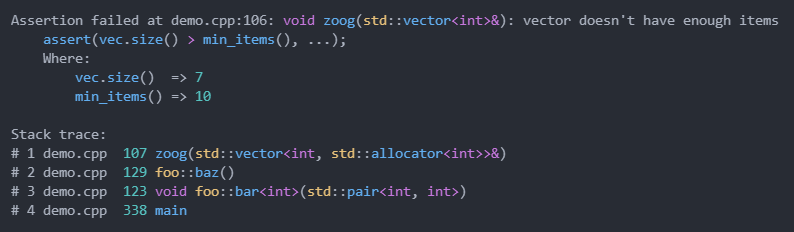
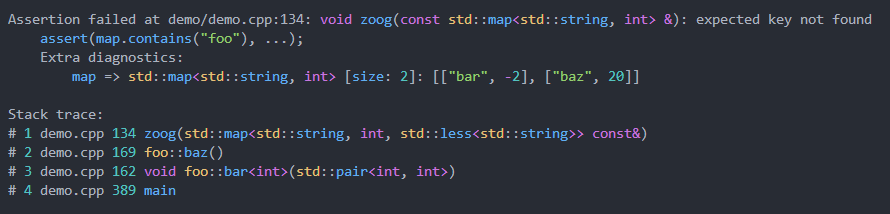
Updated demos to show off new features

Changed region(s): [[0.0, 0.5047, 0.7254, 0.9533], [0.0, 0.0561, 0.9975, 0.4486]]

diff --git a/tests/demo/demo.cpp b/tests/demo/demo.cpp
@@ -133,9 +133,13 @@ auto min_items() {
     return 10;
 }
 
-void zoog(std::vector<int>& vec) {
-    assert(vec.size() > min_items(), "vector doesn't have enough items", vec);
-    assert(vec.size() > 7);
+void zoog(const std::map<std::string, int>& map) {
+    #if __cplusplus >= 202002L
+     assert(map.contains("foo"), "expected key not found", map);
+    #else
+     assert(map.count("foo") != 1, "expected key not found", map);
+    #endif
+    CHECK(map.at("bar") >= 0, "unexpected value for foo in the map", map);
 }
 
 #define O_RDONLY 0
@@ -166,8 +170,13 @@ public:
         puts("");
         // General demos
         {
-            std::vector<int> vec = {1, 2, 3, 4, 5, 6, 7};
-            zoog(vec);
+            zoog({
+                //{ "foo", 2 },
+                { "bar", -2 },
+                { "baz", 20 }
+            });
+            std::vector<int> vec = {2, 3, 5, 7, 11, 13};
+            assert(vec.size() > min_items(), "vector doesn't have enough items", vec);
         }
         const char* path = "/home/foobar/baz";
         {

diff --git a/README.md b/README.md
@@ -10,11 +10,16 @@
 <p align="center">The most over-engineered C++ assertion library</p>
 
 ```cpp
-void zoog(std::vector<int>& vec) {
-    assert(vec.size() > min_items(), "vector doesn't have enough items");
+void zoog(const std::map<std::string, int>& map) {
+    assert(map.contains("foo"), "expected key not found", map);
 }
 ```
 ![](screenshots/a.png)
+
+```cpp
+assert(vec.size() > min_items(), "vector doesn't have enough items", vec);
+```
+![](screenshots/a_vec.png)
 
 ```cpp
 const char* path = "/home/foobar/baz";
